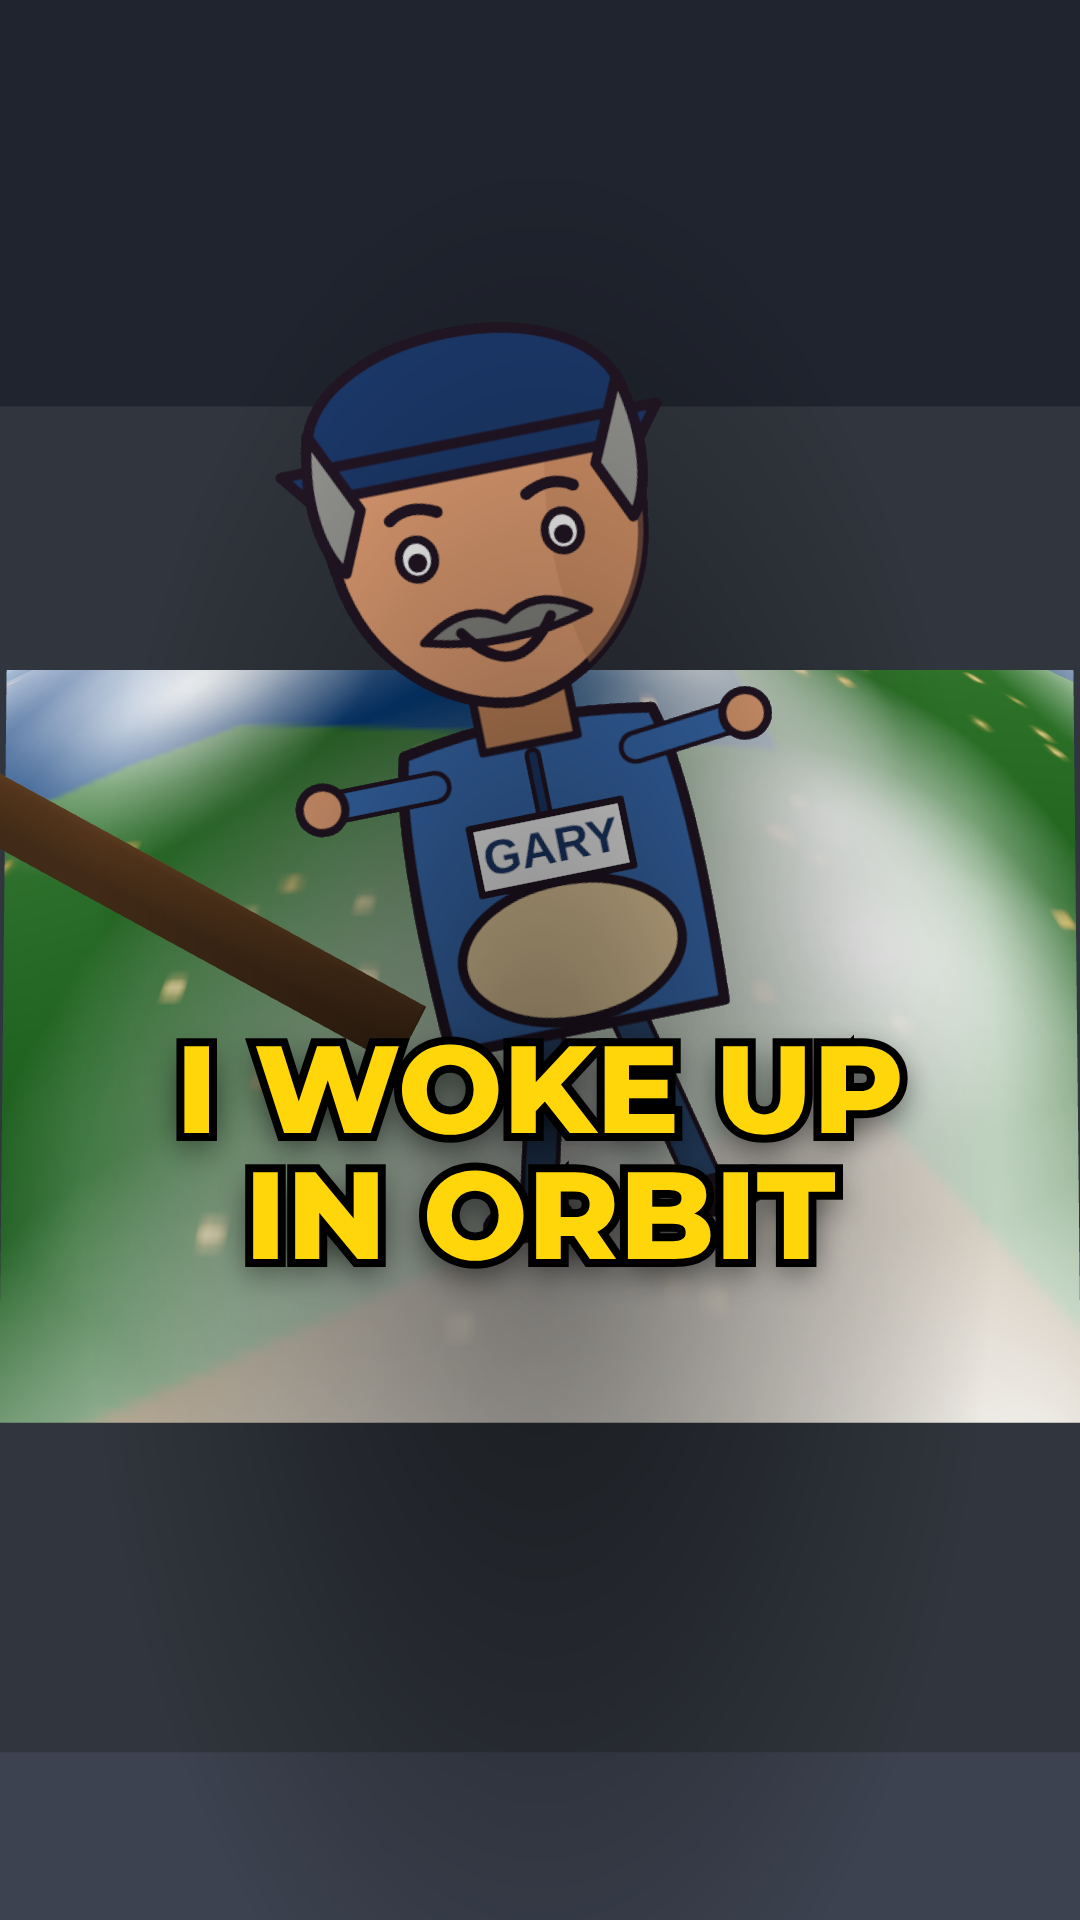
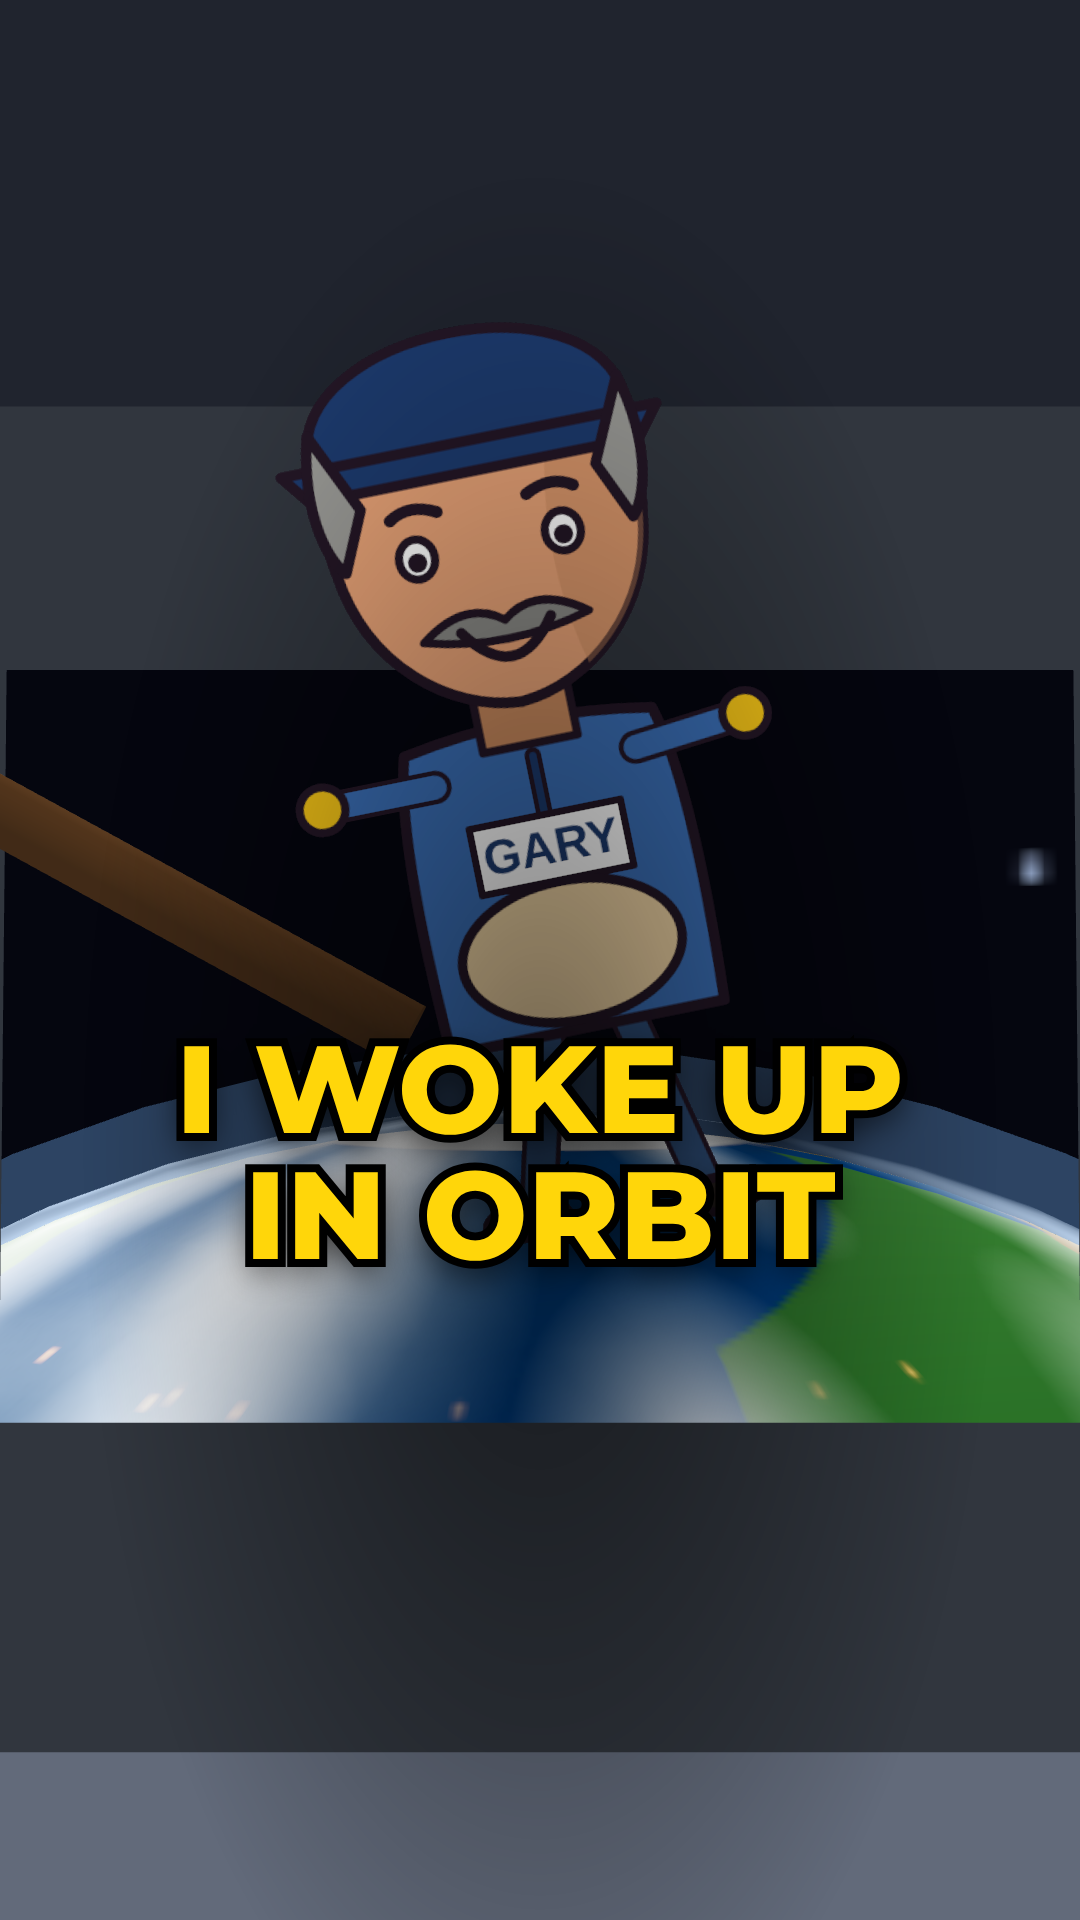
JanitorShort: production notes and cover at frame 45
- janitor-short/SCRIPT.md: production notes (voice path, mix levels, the
  loudness decision and its reason, limits, and the review rounds).
- out/janitor_cover.png: re-rendered at frame 45 after the Earth moved in the
  hook; Gary floats with the mop, the title is centred.

Claude-Session: https://claude.ai/code/session_014M2tnAGUwfy7E82M6YHBcu

diff --git a/janitor-short/SCRIPT.md b/janitor-short/SCRIPT.md
@@ -61,3 +61,12 @@ Three days later, they brought me home. Luckily... the landing was perfect. Unlu
 Now capsules lock at night. And janitors nap in the break room.
 
 Then my boss called. "Gary... you missed a spot."
+
+## Production notes
+
+- **Voice.** The take is Brian (premade, eleven_v3, stability 0.35, similarity 0.80, style 0.35); Mike was not usable on this key and plan (see Voice above). `scripts/janitor-voice.mjs` writes `voice/raw_48k.wav` and `voice/words_raw.json`. `scripts/janitor-voice-fit.py` fits the take to about 66 s (pauses after "Long silence.", tempo 1.198 with pitch kept) and writes `public/audio/janitor/voice.wav` and `voice/words.json`.
+- **Picture.** 28 shots in `src/janitor/shots.tsx`, timed to `voice/words.json`. Subtitle cards come from `scripts/janitor-timing.py`: 2 to 4 words, with the red keys ORBIT, RECYCLED PEE and MY CAR on their first card only. Stills every 2 s went through three Opus max review rounds; the last round found no blocker.
+- **Sound.** An original score (G, E minor, C, D at 124 BPM) and synthesized effects, placed at word times by `scripts/janitor-mix.py`. Standard mix: music +3 dB, SFX -6 dB against the voice's speech level, and the voice unchanged in level. The score ducks under speech over 0.3 s and drops out for the countdown, "Long silence." and the impact.
+- **Loudness.** The master is `loudnorm` with a -14 LUFS target and a -1.5 dBTP ceiling, as in PilotShort. The result is -16.0 LUFS. The voice's peaks sit about 20 dB above its average, so the ceiling binds before -14. Reaching -14 would need limiting that flattens the voice, which the mix standard excludes. The dynamic master pass does change the voice's envelope slightly.
+- **Cover.** `out/janitor_cover.png`, 1080x1920, frame 45: the title in the centre, Gary floating with the mop, Earth through the window.
+- **Limits.** The narrator is Brian, not Mike. The facts need a check against the NASA pages above before publishing. Shading is flat, with no depth of field. The score and effects are synthesized, not licensed. `templates/bridge/` is not in this repository, so the project follows the PilotShort pipeline.
